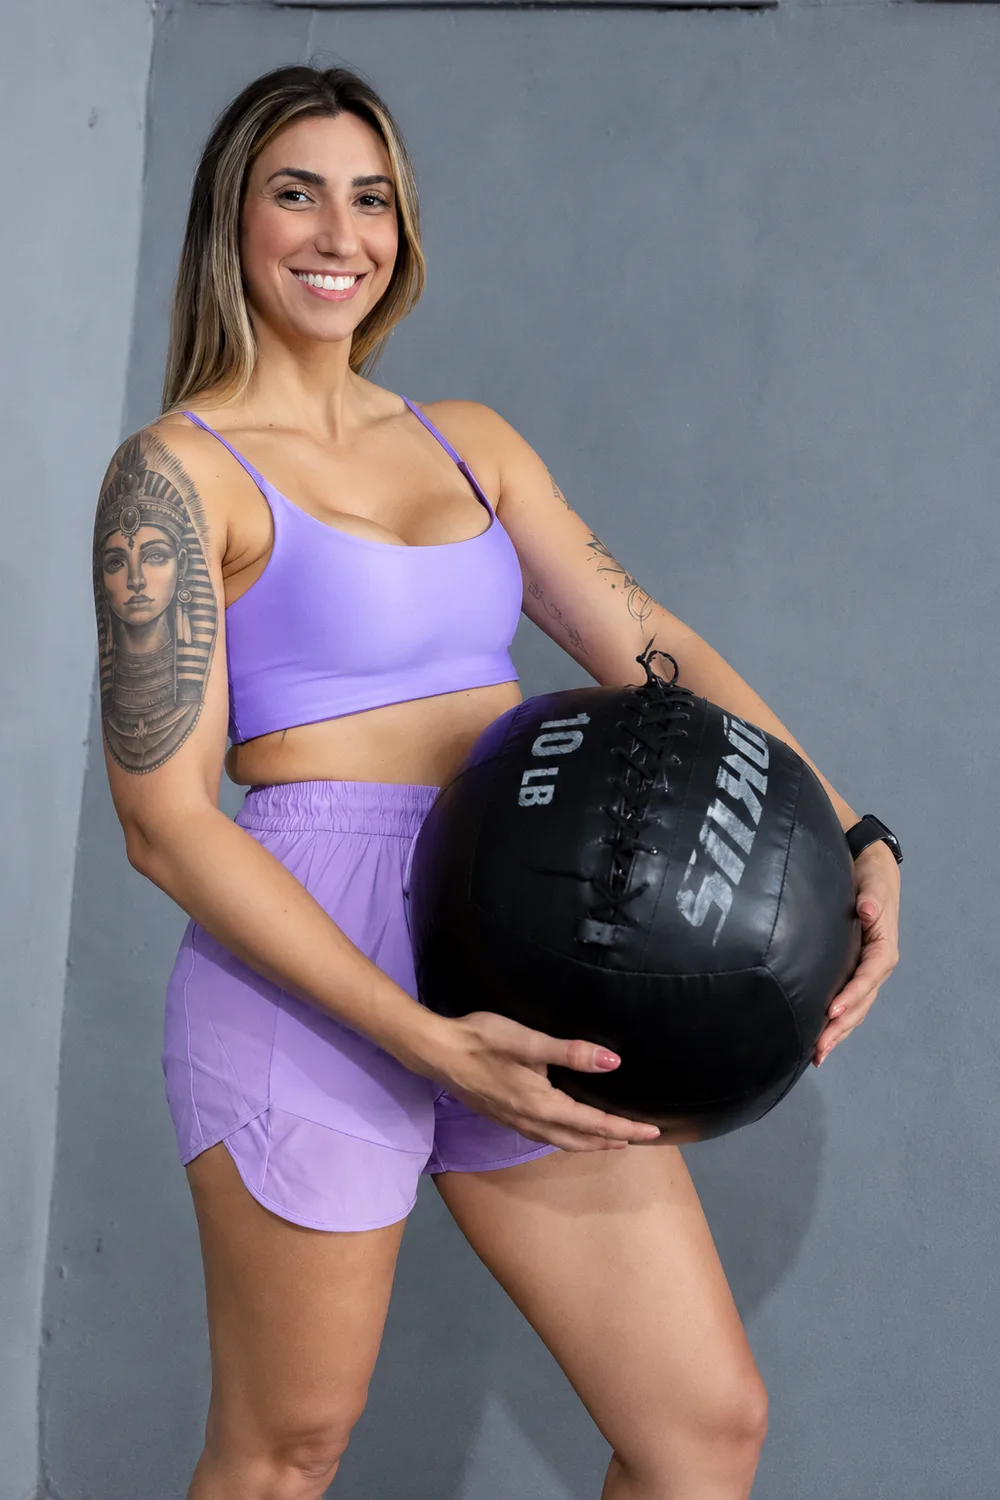
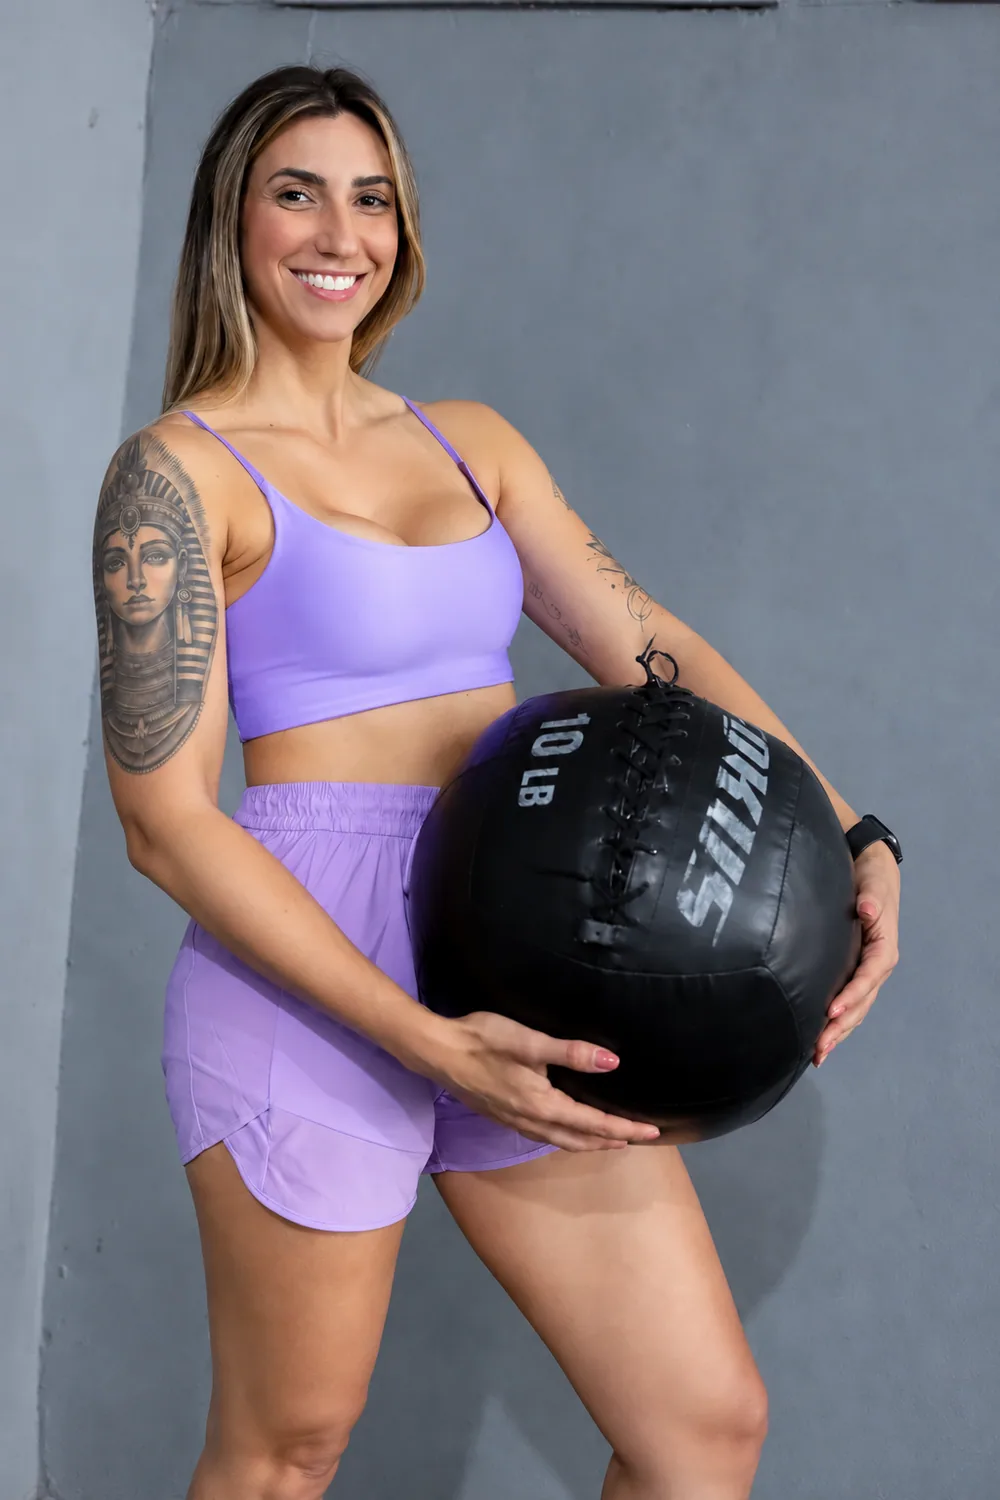
Corrige contorno em foto lilas do editorial

Changed region(s): [[0.217, 0.46, 0.341, 0.552], [0.496, 0.4293, 0.527, 0.46], [0.248, 0.7973, 0.279, 0.828]]

diff --git a/moda-fitness.html b/moda-fitness.html
@@ -54,7 +54,7 @@
         <figure class="fashion-shot fashion-shot-tall" data-fashion-slot="presenca"><img class="fashion-static-photo" src="/img/moda-fitness/azul-presenca.webp" alt="Modelo com conjunto azul e mão na cintura, em retrato de corpo inteiro." width="1000" height="1500" loading="lazy" decoding="async"><figcaption><span>Presença</span><span>O corpo como expressão</span></figcaption></figure>
         <figure class="fashion-shot fashion-shot-offset" data-fashion-slot="detalhes"><img class="fashion-static-photo" src="/img/moda-fitness/azul-detalhes.webp?v=20260919-2" alt="Detalhe do short azul e da mão segurando uma barra de treino." width="1000" height="1500" loading="lazy" decoding="async"><figcaption><span>Detalhes</span><span>Um olhar de perto</span></figcaption></figure>
         <div class="fashion-gallery-note"><span class="fashion-eyebrow">ENTRE FORMAS E SENSAÇÕES</span><p>Menos pressa.<br>Mais <em>presença.</em></p><span class="fashion-small-line" aria-hidden="true"></span></div>
-        <figure class="fashion-shot fashion-shot-wide" data-fashion-slot="gesto"><img class="fashion-static-photo" src="/img/moda-fitness/lilas-gesto.webp" alt="Modelo sorrindo em conjunto lilás e segurando uma bola de treino." width="1000" height="1500" loading="lazy" decoding="async"><figcaption><span>Gesto</span><span>Liberdade de ser e mover</span></figcaption></figure>
+        <figure class="fashion-shot fashion-shot-wide" data-fashion-slot="gesto"><img class="fashion-static-photo" src="/img/moda-fitness/lilas-gesto.webp?v=20260919-2" alt="Modelo sorrindo em conjunto lilás e segurando uma bola de treino." width="1000" height="1500" loading="lazy" decoding="async"><figcaption><span>Gesto</span><span>Liberdade de ser e mover</span></figcaption></figure>
         <figure class="fashion-shot" data-fashion-slot="ritmo"><img class="fashion-static-photo" src="/img/moda-fitness/macacao-ritmo.webp" alt="Modelo em macacão azul-petróleo, de corpo inteiro, ao lado de uma parede da academia." width="1000" height="1500" loading="lazy" decoding="async"><figcaption><span>Ritmo</span><span>Seu jeito de vestir o dia</span></figcaption></figure>
         <figure class="fashion-shot fashion-shot-last" data-fashion-slot="essencia"><img class="fashion-static-photo" src="/img/moda-fitness/lilas-essencia.webp" alt="Modelo em conjunto lilás, em pé junto a uma corda de treino." width="1100" height="1100" loading="lazy" decoding="async"><figcaption><span>Essência</span><span>Estilo que é seu</span></figcaption></figure>
       </div>

diff --git a/scripts/build-fashion-catalog.js b/scripts/build-fashion-catalog.js
@@ -36,7 +36,7 @@ async function build() {
       catalog.push({
         category: collection.slug,
         categoryLabel: collection.label,
-        src: `/img/moda-fitness/catalogo/${filename}${collection.slug === 'azul' && index === 32 ? '?v=20260919-2' : ''}`,
+        src: `/img/moda-fitness/catalogo/${filename}${(collection.slug === 'azul' && index === 32) || (collection.slug === 'roxa-lilas' && index === 16) ? '?v=20260919-2' : ''}`,
         width: result.width,
         height: result.height,
         alt: `Heloísa Gouvea veste look fitness ${collection.label.toLowerCase()} — foto ${index + 1}`

diff --git a/js/moda-fitness-catalog.js b/js/moda-fitness-catalog.js
@@ -506,7 +506,7 @@ window.FASHION_CATALOG = [
   {
     "category": "roxa-lilas",
     "categoryLabel": "Roxa / lilás",
-    "src": "/img/moda-fitness/catalogo/roxa-lilas-017.webp",
+    "src": "/img/moda-fitness/catalogo/roxa-lilas-017.webp?v=20260919-2",
     "width": 1024,
     "height": 1536,
     "alt": "Heloísa Gouvea veste look fitness roxa / lilás — foto 17"
